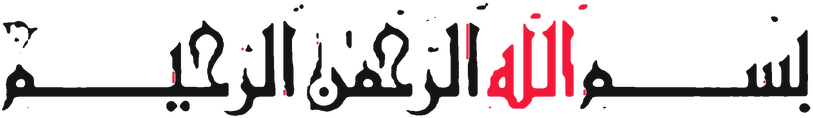
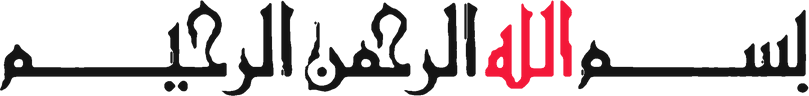
Basmala: remove the tashkeel and the stray specks
Claude-Session: https://claude.ai/code/session_01UicJ4XtDQ2zq9TQdr6FfS9

diff --git a/assets/css/basmala.css b/assets/css/basmala.css
@@ -12,7 +12,7 @@
 
 .boi-basmala__image {
 	display: inline-block;
-	width: 271px;
+	width: 270px;
 	max-width: 100%;
 	height: auto;
 }

diff --git a/inc/basmala.php b/inc/basmala.php
@@ -29,7 +29,7 @@ defined( 'ABSPATH' ) || exit;
  */
 function boi_basmala_html() {
 	return '<div class="boi-basmala">'
-		. '<img class="boi-basmala__image" src="' . esc_url( BOI_URI . '/assets/images/basmala.webp' ) . '" width="271" height="39" alt="' . esc_attr__( 'In the name of God, the Most Merciful, the Most Compassionate', 'bestofislam' ) . '" decoding="async" />'
+		. '<img class="boi-basmala__image" src="' . esc_url( BOI_URI . '/assets/images/basmala.webp' ) . '" width="270" height="32" alt="' . esc_attr__( 'In the name of God, the Most Merciful, the Most Compassionate', 'bestofislam' ) . '" decoding="async" />'
 		. '</div>';
 }
 

diff --git a/CHANGELOG.md b/CHANGELOG.md
@@ -9,7 +9,7 @@ versioning.
 No feature removed and no public identifier renamed.
 
 ### Added
-- The Basmala at the head of every article (`inc/basmala.php`, `assets/css/basmala.css`): the owner's public-domain calligraphy, redrawn sharp as lossless WebP (`assets/images/basmala.webp`, 813 by 118 pixels, three times its display size of 271 by 39): the black and red ink were separated, enlarged eight times, smoothed and re-cut, then reduced with anti-aliasing, which removes the jagged steps and the white fringe of the original GIF, centred above the abstract. Its alt text gives the meaning in English. In the dark appearance it is inverted with the hue turned back, so the lettering reads light and the word Allah stays red. Never on pages.
+- The Basmala at the head of every article (`inc/basmala.php`, `assets/css/basmala.css`): the owner's public-domain calligraphy, redrawn sharp as lossless WebP (`assets/images/basmala.webp`, 809 by 96 pixels, three times its display size of 270 by 32): the black and red ink were separated, enlarged eight times, smoothed and re-cut, then reduced with anti-aliasing, which removes the jagged steps and the white fringe of the original GIF. The tashkeel and the stray specks were taken out at the owner's request, leaving the letters and their dots, centred above the abstract. Its alt text gives the meaning in English. In the dark appearance it is inverted with the hue turned back, so the lettering reads light and the word Allah stays red. Never on pages.
 - Theme Options, Display: the Basmala switch (`basmala`, on by default).
 - `tests/basmala-test.php`.
 

diff --git a/docs/SSOT.md b/docs/SSOT.md
@@ -773,7 +773,7 @@ The owner asked on 2026-11-22 for Google's "preferred sources" (Google Search Ce
 
 ### D68. The Basmala opens every article
 
-The owner asked on 2026-11-24 for the Basmala above the article text, above the abstract box, on every article, using a calligraphy image the owner stated is in the public domain, served as WebP. `assets/images/basmala.webp` is that image redrawn sharp at three times its display size (813 by 118 pixels, shown at 271 by 39), so it stays crisp on high-density screens, centred, with the English meaning as its alt text; in the dark appearance a CSS invert and hue turn keeps it legible. It is added at `the_content` priority 31, after the abstract, on single posts only. Setting: Theme Options, Display, Basmala (`basmala`). Test: `tests/basmala-test.php`.
+The owner asked on 2026-11-24 for the Basmala above the article text, above the abstract box, on every article, using a calligraphy image the owner stated is in the public domain, served as WebP. `assets/images/basmala.webp` is that image redrawn sharp at three times its display size (809 by 96 pixels, shown at 270 by 32), with the tashkeel and stray specks removed at the owner's request, so it stays crisp on high-density screens, centred, with the English meaning as its alt text; in the dark appearance a CSS invert and hue turn keeps it legible. It is added at `the_content` priority 31, after the abstract, on single posts only. Setting: Theme Options, Display, Basmala (`basmala`). Test: `tests/basmala-test.php`.
 
 ### D67. The Excerpt and the Abstract are different texts
 

diff --git a/docs/CREDITS.md b/docs/CREDITS.md
@@ -107,7 +107,8 @@ same owner.
 `assets/images/basmala.webp`, the Basmala calligraphy at the head of every
 article, is in the public domain, as the owner confirmed on 2026-11-24. It was
 redrawn from the owner's GIF at three times its size and saved as lossless
-WebP, with the edges smoothed and the white fringe removed.
+WebP, with the edges smoothed, the white fringe and stray specks removed, and the
+tashkeel taken out.
 
 ## Images
 
